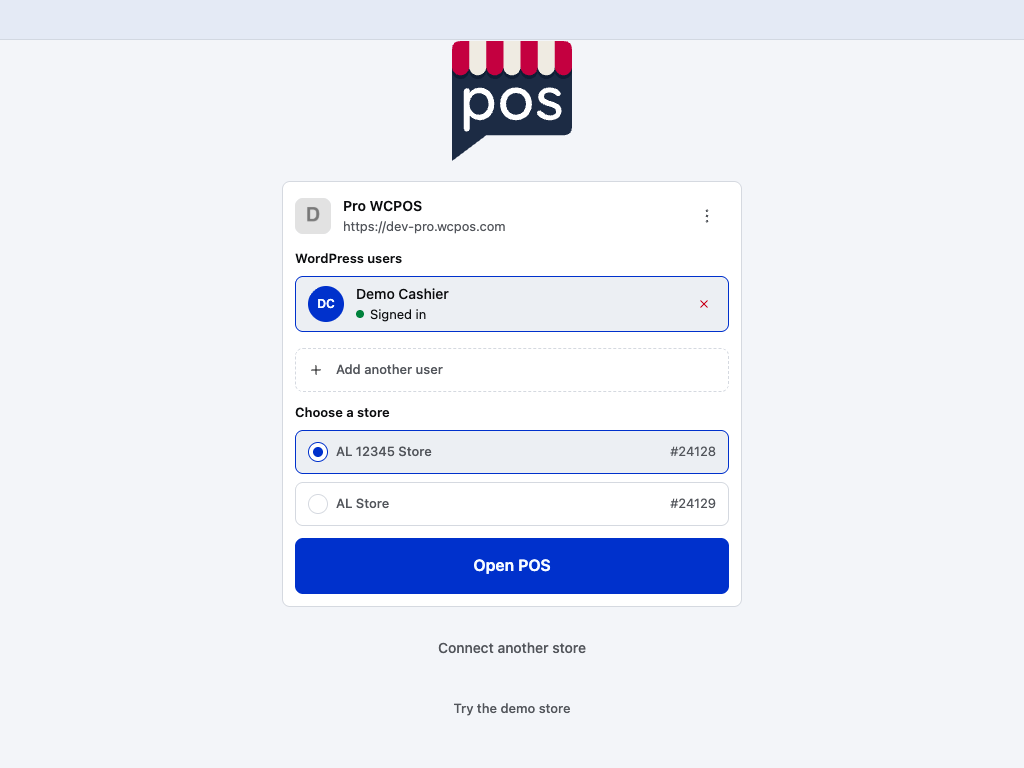
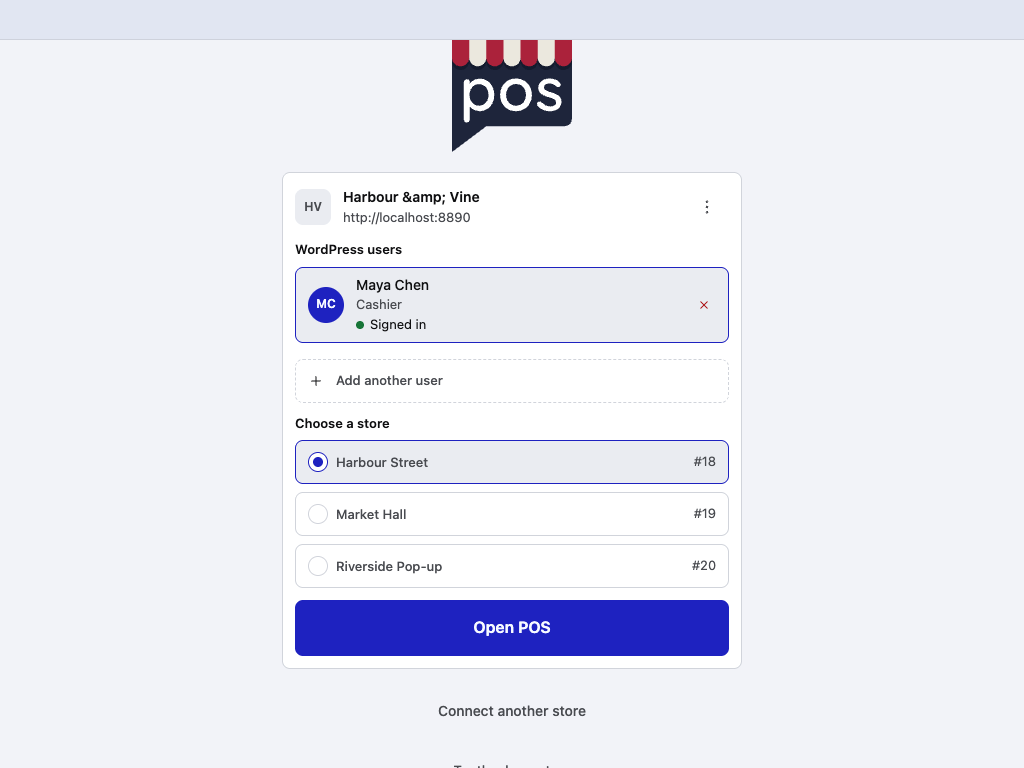
tools(wp-admin-shots): seed fixes + the tablet Choose a store shot from the desktop app
Seed: Café till saved with a 100.00 opening float (no 200.00 placeholder in the
Registers shot), Maya Chen signs in with the local throwaway password
`password`, and the POS setting force_ssl is off so /pos stays on http. All
idempotent: a second `up` prints `seed: created 0 (nothing)`.

New `capture.mjs pos stores/setup [--app <path>]`: drives the released WCPOS
desktop app (wcpos/electron v2.0.6) with a throwaway profile under .cache,
connects it to this env, signs in as Maya Chen, picks Harbour Street and
writes tablet-light-regular--st-1-choose-store.png (1024x768) and
manifest.json. The app always connects over https (normalizeStoreUrl), so
https://localhost:<port> is redirected to http in that profile's session
only. `verify` now also checks the tablet shot's size, pins and leak text.

Claude-Session: https://claude.ai/code/session_0135TFhq6TLFSCxn9Cv6vvS3

diff --git a/tools/wp-admin-shots/seed.php b/tools/wp-admin-shots/seed.php
@@ -91,6 +91,14 @@ foreach ( $wpas_options as $wpas_key => $wpas_value ) {
 	update_option( $wpas_key, $wpas_value );
 }
 
+// The env is plain http://localhost: with force_ssl on, /pos redirects to an https URL nothing serves.
+$wpas_general = get_option( 'woocommerce_pos_settings_general', array() );
+$wpas_general = is_array( $wpas_general ) ? $wpas_general : array();
+if ( false !== ( $wpas_general['force_ssl'] ?? null ) ) {
+	update_option( 'woocommerce_pos_settings_general', array_merge( $wpas_general, array( 'force_ssl' => false ) ) );
+	$wpas_note( 'force_ssl off' );
+}
+
 global $wpdb;
 $wpas_rate = $wpdb->get_var( "SELECT tax_rate_id FROM {$wpdb->prefix}woocommerce_tax_rates WHERE tax_rate_country = 'US' AND tax_rate_state = 'WA' AND tax_rate_class = ''" );
 if ( ! $wpas_rate ) {
@@ -118,7 +126,10 @@ if ( $wpas_admin && 'Alex Morgan' !== $wpas_admin->display_name ) {
 	$wpas_note( 'admin profile' );
 }
 
-$wpas_users = array();
+// Maya Chen signs in to the desktop app for the Choose a store shot. Like wp-env's own
+// admin/password, this is a throwaway for a local container only, not a secret.
+$wpas_maya_pass = 'password';
+$wpas_users     = array();
 foreach ( array( array( 'Maya', 'Chen', 'cashier' ), array( 'Leo', 'Park', 'cashier' ), array( 'Priya', 'Nair', 'cashier' ), array( 'Sam', 'Ortiz', 'shop_manager' ) ) as list( $wpas_first, $wpas_last, $wpas_role ) ) {
 	$wpas_login = strtolower( $wpas_first );
 	$wpas_user  = get_user_by( 'login', $wpas_login );
@@ -127,7 +138,7 @@ foreach ( array( array( 'Maya', 'Chen', 'cashier' ), array( 'Leo', 'Park', 'cash
 			array(
 				'user_login'   => $wpas_login,
 				'user_email'   => $wpas_login . '@example.com',
-				'user_pass'    => wp_generate_password( 24 ),
+				'user_pass'    => 'maya' === $wpas_login ? $wpas_maya_pass : wp_generate_password( 24 ),
 				'first_name'   => $wpas_first,
 				'last_name'    => $wpas_last,
 				'display_name' => "$wpas_first $wpas_last",
@@ -137,8 +148,12 @@ foreach ( array( array( 'Maya', 'Chen', 'cashier' ), array( 'Leo', 'Park', 'cash
 		if ( is_wp_error( $wpas_id ) ) {
 			WP_CLI::error( "user $wpas_login: " . $wpas_id->get_error_message() );
 		}
-		$wpas_note( "user $wpas_first $wpas_last" );
+		$wpas_note( "user $wpas_first $wpas_last" . ( 'maya' === $wpas_login ? ' (local password)' : '' ) );
 		$wpas_user = get_user_by( 'id', $wpas_id );
+	}
+	if ( 'maya' === $wpas_login && ! wp_check_password( $wpas_maya_pass, $wpas_user->user_pass, $wpas_user->ID ) ) {
+		wp_set_password( $wpas_maya_pass, $wpas_user->ID );
+		$wpas_note( 'Maya Chen password' );
 	}
 	$wpas_users[ $wpas_login ] = (int) $wpas_user->ID;
 }
@@ -229,9 +244,16 @@ if ( ! in_array( 'Front counter', $wpas_names, true ) ) {
 	$wpas_rest( 'PATCH', '/wcpos/v2/registers/' . $wpas_registers[0]['id'], array( 'name' => 'Front counter', 'default_float' => '150.00' ) );
 	$wpas_note( 'register Front counter' );
 }
+// Café till is saved with its own float: unset, the store editor shows the plugin's 200.00 placeholder.
 if ( ! in_array( 'Café till', $wpas_names, true ) ) {
-	$wpas_rest( 'POST', '/wcpos/v2/registers', array( 'name' => 'Café till', 'store_id' => $wpas_harbour ) );
-	$wpas_note( 'register Café till' );
+	$wpas_rest( 'POST', '/wcpos/v2/registers', array( 'name' => 'Café till', 'store_id' => $wpas_harbour, 'default_float' => '100.00' ) );
+	$wpas_note( 'register Café till (float 100.00)' );
+}
+foreach ( $wpas_harbour_tills() as $wpas_row ) {
+	if ( 'Café till' === $wpas_row['name'] && '100.00' !== number_format( (float) ( $wpas_row['default_float'] ?? 0 ), 2, '.', '' ) ) {
+		$wpas_rest( 'PATCH', '/wcpos/v2/registers/' . $wpas_row['id'], array( 'default_float' => '100.00' ) );
+		$wpas_note( 'Café till float 100.00' );
+	}
 }
 
 $wpas_mug = wc_get_product( wc_get_product_id_by_sku( 'HV-MUG-01' ) );

diff --git a/tools/wp-admin-shots/README.md b/tools/wp-admin-shots/README.md
@@ -9,15 +9,26 @@ current `main` builds of woocommerce-pos and woocommerce-pos-pro, seeded with fi
 - Docker running; Node 20+; `gh` authenticated (the plugin builds are the `deployment-package`
   artifacts of each repo's `Deploy to Dev Site` workflow on `main`).
 - Once, in this folder: `PLAYWRIGHT_SKIP_BROWSER_GC=1 npm install` (its own lockfile, never the repo root).
+- For `pos` only: the released WCPOS desktop app (macOS arm64), unpacked into `.cache/app/`:
+  `gh release download v2.0.6 -R wcpos/electron -p 'WCPOS-darwin-arm64-2.0.6.zip' -D .cache/app-download`
+  then `ditto -x -k .cache/app-download/WCPOS-darwin-arm64-2.0.6.zip .cache/app`.
 
 ## Commands (from the repo root)
 
 ```sh
 node tools/wp-admin-shots/capture.mjs up                    # fetch builds, start wp-env on a free port from 8890, seed
 node tools/wp-admin-shots/capture.mjs shoot stores/setup    # PNGs + static/img/2.x/stores/setup/en/wp-admin.json
+node tools/wp-admin-shots/capture.mjs pos stores/setup      # desktop app's Choose a store (tablet) + manifest.json
 node tools/wp-admin-shots/capture.mjs verify stores/setup   # sizes, pins, alt text, leak checks
 node tools/wp-admin-shots/capture.mjs down                  # stop this tool's env only
 ```
+
+`pos <page> [--app <WCPOS.app or its executable>]` needs the env `up`. The web build at `/pos` skips
+Connect and Choose a store, so it drives the desktop app (Playwright's Electron driver) with a
+throwaway profile in `.cache/pos-profile` (emptied every run; the app's real data is never touched),
+connects it to this env, signs in as Maya Chen and picks Harbour Street. Maya's password is the
+literal `password`, a throwaway for this local container like wp-env's own `admin`/`password`.
+The seed also turns the POS setting `force_ssl` off, so `/pos` stays on plain http.
 
 `up` is idempotent: it reuses the ports in `.cache/state.json`, downloads a build only when `main`
 moved, and the seed finds everything before creating it. `--free-dir`/`--pro-dir <dir>` use a
